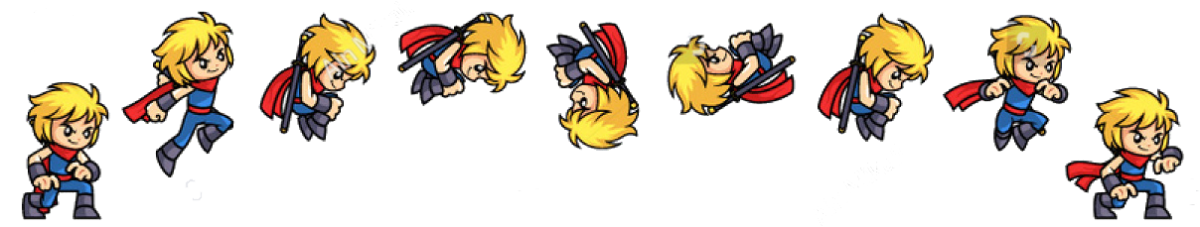
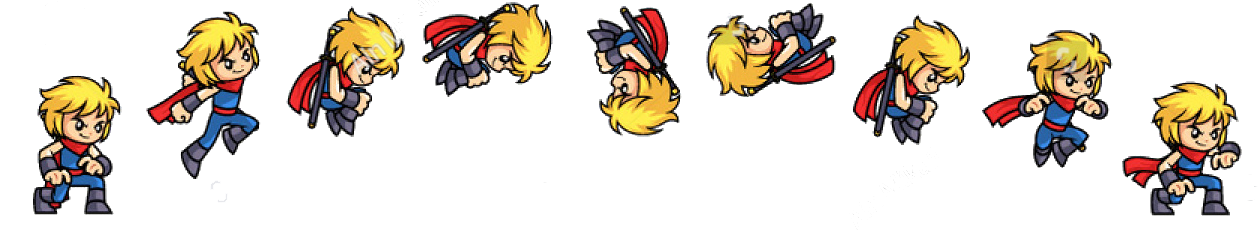
TPE3- Ajuste de Spritesheets en index.css

diff --git a/TP3/Entregable/TPE3/css/index.css b/TP3/Entregable/TPE3/css/index.css
@@ -21,21 +21,21 @@ footer{
     height: 200px;
     margin: auto;
     background: url(../imagenes/correr.png)repeat-x;
-    animation: corriendo 1.5s steps(6) infinite ;
+    animation: corriendo 0.5s steps(6) infinite ;
     position: relative;
     top: 30%;
-    right: 40%;
+    right: 10%;
 }
 
 .personajeSaltando{
-    width: 125px;
-    height: 230px;
+    width: 139px;
+    height: 300px;
     margin: auto;
-    background: url(../imagenes/salto.png)repeat-x;
-    animation: corriendo 1.5s steps(9) infinite ;
+    background: url(../imagenes/salto2.png)repeat-x;
+    animation: saltando 1s steps(9) infinite ;
     position: relative;
-    top: 30%;
-    right: 40%;
+    top: 20%;
+    right: 50%;
 }
 
 @keyframes corriendo {
@@ -45,5 +45,5 @@ footer{
 
 @keyframes saltando {
     0%{background-position: 0}
-    100%{background-position: 1200px}
+    100%{background-position: 1260px}
 }

diff --git a/TP3/Entregable/TPE3/Index.html b/TP3/Entregable/TPE3/Index.html
@@ -8,6 +8,7 @@
 <body>
     <header>Nombre Juego</header>
     <section>
+        <div class="personajeCaminando"></div>
         <div class="personajeSaltando"></div>
     </section>
     <footer>Instrucciones del Juego</footer>
